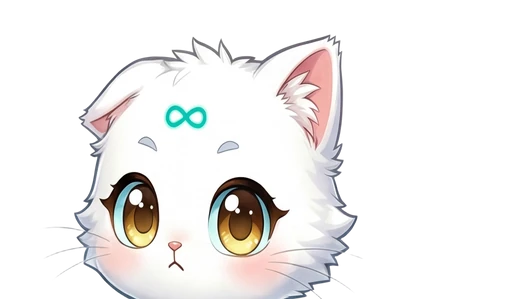
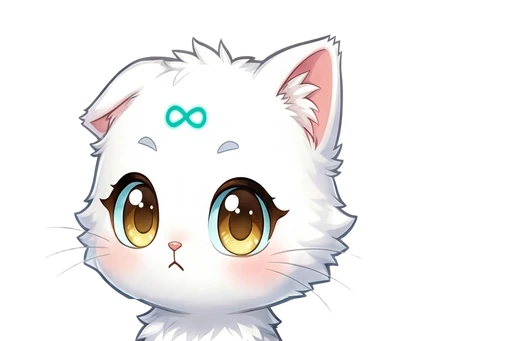
feat(companion): let Frost's gaze follow the pointer across the screen
The cat used to look only at a pointer within a cat's width of its body;
farther away it kept to itself. That read "a small cat cannot see the far
side of the screen" as behaviour, but it meant the pet ignored the pointer
most of the time it was being used.

The gaze now follows anywhere. The body stays put; the head turns only
about the neck, saturating within GAZE_REACH and fading with distance
toward GAZE_FALLOFF - a cat does not crane across the room, but the eyes
still aim. The poll (50ms) only sets a target; a rAF loop eases toward it
with exponential smoothing (GAZE_TAU_MS) and stops once settled, so the
turn is one continuous glance instead of a step per poll and an idle cat
costs nothing. Startle is now a far-to-near jump between polls
(STARTLE_FROM -> STARTLE_RADIUS), not a side effect of the old radius.

The head layer was recut with a downward overlap (recut_overlap.py) and
every expression/look frame re-exported, so the seam hides in one patch of
fur instead of showing when the face or gaze changes; click reactions move
the whole cat.

Changed region(s): [[0.1176, 0.0903, 0.7059, 1.0]]

diff --git a/src/styles.css b/src/styles.css
@@ -1043,7 +1043,7 @@ body { background: transparent; }
   height: 100%;
   --look-x: 0;
   --look-y: 0;
-  transition: rotate 240ms ease-out;
+  rotate: calc(var(--look-x) * 1.2deg);
 }
 
 .pet__body,
@@ -1053,10 +1053,11 @@ body { background: transparent; }
   width: 100%;
 }
 
-/* The head sits above the body; the body starts where the neck ruff ends,
-   which is the same cut the artwork was split on. */
-.pet__head { top: 0; height: 59%; z-index: 2; }
-.pet__body { bottom: 0; height: 41%; z-index: 1; }
+/* The head frame is cut 140 source rows INTO the body (recut_overlap.py):
+   the overlap is the same fur pixels the body draws, so the seam is invisible
+   at rest and the head can lift or tilt without exposing a gap at the neck. */
+.pet__head { top: 0; height: 66.94%; z-index: 2; }
+.pet__body { bottom: 0; height: 41.29%; z-index: 1; }
 
 .pet__body-frame {
   width: 100%;
@@ -1074,7 +1075,7 @@ body { background: transparent; }
   object-fit: contain;
   object-position: 50% 100%;
   opacity: 0;
-  transition: opacity 180ms ease;
+  transition: opacity 140ms ease;
   will-change: opacity;
 }
 
@@ -1086,38 +1087,40 @@ body { background: transparent; }
 .pet__head { animation: pet-head 6.4s ease-in-out infinite; transform-origin: 50% 100%; }
 
 /* The pointer. --look-x and --look-y are the pointer's offset from the
-   cat's centre, normalised; companion.ts sets them and CSS does the rest.
-   The gaze uses the individual rotate/translate properties on purpose: the
-   idle and mood loops animate `transform`, and an animation would override
-   a `transform` declaration on the same element — the individual properties
-   compose with it instead, so the cat can breathe and look at you at the
-   same time. */
+   cat's centre, normalised and eased per-frame by companion.ts; CSS turns
+   them into motion. The gaze uses the individual rotate/translate properties
+   on purpose: the idle and mood loops animate `transform`, and an animation
+   would override a `transform` declaration on the same element — the
+   individual properties compose with it instead, so the cat can breathe and
+   look at you at the same time. No transition here: the rAF easing is the
+   smoothing, a second one would only add lag. */
 .pet__head {
-  rotate: calc(var(--look-x) * 9deg);
-  translate: calc(var(--look-x) * 2.4%) calc(var(--look-y) * 2.2%);
-  transition: rotate 240ms ease-out, translate 240ms ease-out;
+  rotate: calc(var(--look-x) * 6deg);
+  translate: calc(var(--look-x) * 2.2%) calc(var(--look-y) * 1.6%);
 }
 .pet__body {
-  rotate: calc(var(--look-x) * 2.6deg);
-  translate: calc(var(--look-x) * 0.8%) calc(var(--look-y) * 0.8%);
-  transition: rotate 240ms ease-out, translate 240ms ease-out;
+  rotate: calc(var(--look-x) * 2deg);
+  translate: calc(var(--look-x) * 0.6%) calc(var(--look-y) * 0.6%);
 }
 
-@keyframes pet-float { 0%, 100% { transform: translateY(0); } 50% { transform: translateY(-4px); } }
-@keyframes pet-breathe { 0%, 100% { transform: scale(1, 1); } 50% { transform: scale(1.018, .988); } }
-@keyframes pet-head { 0%, 100% { transform: rotate(-1.4deg) translateY(0); } 50% { transform: rotate(1.4deg) translateY(-1px); } }
-@keyframes pet-lean-in { 0%, 100% { transform: rotate(-2deg) translateY(0) scale(1); } 50% { transform: rotate(2.5deg) translateY(-3px) scale(1.02); } }
-@keyframes pet-hop { 0% { transform: translateY(0) scale(1); } 35% { transform: translateY(-9px) scale(1.05, .96); } 70% { transform: translateY(0) scale(.97, 1.03); } 100% { transform: translateY(0) scale(1); } }
-@keyframes pet-happy-head { 0% { transform: rotate(0) translateY(0); } 35% { transform: rotate(-5deg) translateY(-2px); } 70% { transform: rotate(3deg) translateY(1px); } 100% { transform: rotate(0) translateY(0); } }
-@keyframes pet-happy-body { 0% { transform: scale(1, 1); } 35% { transform: scale(.97, 1.04); } 70% { transform: scale(1.03, .97); } 100% { transform: scale(1, 1); } }
-@keyframes pet-think { 0%, 100% { transform: rotate(-3.5deg) translateX(-1.5%); } 50% { transform: rotate(3.5deg) translateX(1.5%); } }
-@keyframes pet-pop { 0% { transform: scale(1); } 45% { transform: scale(1.09, 1.11) translateY(-4px); } 100% { transform: scale(1); } }
-@keyframes pet-pop-head { 0% { transform: translateY(0) scale(1); } 45% { transform: translateY(-5px) scale(1.05); } 100% { transform: translateY(0) scale(1); } }
-@keyframes pet-turn-away { 0%, 100% { transform: rotate(-7deg) translateX(-2%); } 50% { transform: rotate(-9deg) translateX(-3%); } }
+/* Head-only motion stays a tilt about the neck (transform-origin 50% 100%):
+   the cut line sits at the origin, so rotation never slides the seam, and
+   the fur overlap absorbs the little lift a tilt adds. Whole-cat beats
+   (hop, pop) transform the pet so both layers move as one. */
+@keyframes pet-float { 0%, 100% { transform: translateY(0); } 50% { transform: translateY(-3px); } }
+@keyframes pet-breathe { 0%, 100% { transform: scale(1, 1); } 50% { transform: scale(1.015, .99); } }
+@keyframes pet-head { 0%, 100% { transform: rotate(-1.2deg) translateY(0); } 50% { transform: rotate(1.2deg) translateY(-0.5px); } }
+@keyframes pet-lean-in { 0%, 100% { transform: rotate(-1.6deg) translateY(0) scale(1); } 50% { transform: rotate(2deg) translateY(-1.5px) scale(1.015); } }
+@keyframes pet-hop { 0% { transform: translateY(0) scale(1); } 30% { transform: translateY(-5px) scale(.98, 1.03); } 55% { transform: translateY(0) scale(1.04, .96); } 78% { transform: translateY(-1.5px) scale(.99, 1.01); } 100% { transform: translateY(0) scale(1); } }
+@keyframes pet-happy-head { 0%, 100% { transform: rotate(0); } 35% { transform: rotate(-3deg); } 70% { transform: rotate(2deg); } }
+@keyframes pet-think { 0%, 100% { transform: rotate(-2.5deg) translateX(-1%); } 50% { transform: rotate(2.5deg) translateX(1%); } }
+@keyframes pet-pop { 0% { transform: scale(1); } 45% { transform: scale(1.06, 1.08) translateY(-3px); } 100% { transform: scale(1); } }
+@keyframes pet-pop-head { 0%, 100% { transform: rotate(0); } 45% { transform: rotate(2.5deg); } }
+@keyframes pet-turn-away { 0%, 100% { transform: rotate(-5deg) translateX(-1.5%); } 50% { transform: rotate(-6.5deg) translateX(-2%); } }
 @keyframes pet-dangle { 0%, 100% { transform: rotate(-3deg) translateY(0); } 50% { transform: rotate(4deg) translateY(2px); } }
 @keyframes pet-swing { 0%, 100% { transform: rotate(3deg); } 50% { transform: rotate(-3deg); } }
-@keyframes pet-shake { 0%, 100% { transform: rotate(0) translateX(0); } 25% { transform: rotate(-6deg) translateX(-3%); } 75% { transform: rotate(6deg) translateX(3%); } }
-@keyframes pet-puff { 0%, 100% { transform: scale(1, 1); } 50% { transform: scale(1.06, .94); } }
+@keyframes pet-shake { 0%, 100% { transform: rotate(0) translateX(0); } 25% { transform: rotate(-4deg) translateX(-2%); } 75% { transform: rotate(4deg) translateX(2%); } }
+@keyframes pet-puff { 0%, 100% { transform: scale(1, 1); } 50% { transform: scale(1.05, .95); } }
 
 /* ------------------------------------------------------ the gaze frames */
 /* The neutral face is the resting one; the others replace it when the
@@ -1159,10 +1162,10 @@ body { background: transparent; }
 .pet[data-mood="curious"] .pet__head { animation: pet-lean-in 1.6s ease-in-out infinite; }
 .pet[data-mood="curious"] .pet__body { animation: pet-breathe 3.2s ease-in-out infinite; }
 
-/* Happy — it hops, once, and settles. */
-.pet[data-mood="happy"] { animation: pet-hop 620ms cubic-bezier(.3, .8, .4, 1); }
-.pet[data-mood="happy"] .pet__head { animation: pet-happy-head 620ms cubic-bezier(.3, .8, .4, 1); }
-.pet[data-mood="happy"] .pet__body { animation: pet-happy-body 620ms cubic-bezier(.3, .8, .4, 1); }
+/* Happy — the whole cat hops once and settles; the head only tilts about
+   the neck, so the hop never pulls the head off the body. */
+.pet[data-mood="happy"] { animation: pet-hop 560ms cubic-bezier(.3, .8, .4, 1); }
+.pet[data-mood="happy"] .pet__head { animation: pet-happy-head 560ms cubic-bezier(.3, .8, .4, 1); }
 
 /* Thinking — the cat rocks the way a person does when working something out. */
 .pet[data-mood="thinking"] .pet__head { animation: pet-think 1.9s ease-in-out infinite; }
@@ -1233,7 +1236,7 @@ body { background: transparent; }
 .pet[data-look="sleepy"] .pet__body { animation-duration: 8s; }
 
 @media (prefers-reduced-motion: reduce) {
-  .pet, .pet__body, .pet__head { animation: none !important; transition: none !important; }
+  .pet, .pet__body, .pet__head { animation: none !important; transition: none !important; rotate: 0deg; translate: 0 0; }
   .pet__frame { transition: none; }
 }
 

diff --git a/src/companion.ts b/src/companion.ts
@@ -61,15 +61,21 @@ type PointerState = {
   scaleFactor: number;
 };
 
-/// The cat notices the pointer within roughly a cat-width of its body.
-/// Farther away it keeps to itself: a pointer on the other side of the
-/// screen is not something a small cat can see, and pretending otherwise
-/// reads as a tracking bug.
-const ATTENTION_RADIUS = 104;
-
-/// A pointer that jumps from outside the attention radius to inside this one
-/// between two polls moved fast and landed close: a startle, not a glance.
+/// A pointer that jumps from far away to inside this radius between two
+/// polls moved fast and landed close: a startle, not a glance.
 const STARTLE_RADIUS = 56;
+const STARTLE_FROM = 150;
+
+/// The gaze follows the pointer anywhere on screen. Within GAZE_REACH the
+/// turn saturates; beyond it the head turn fades with distance — a cat does
+/// not crane its neck across the room — while the eyes still aim.
+const GAZE_REACH = 160;
+const GAZE_FALLOFF = 520;
+
+/// Exponential smoothing time constant for the gaze. The poll only sets a
+/// target; a rAF loop eases toward it every frame, so the turn is continuous
+/// instead of one small step per poll.
+const GAZE_TAU_MS = 110;
 
 /// Below this an axis counts as "straight ahead", so a pointer sitting on
 /// the cat does not make it twitch. While an axis is in the dead zone the
@@ -77,10 +83,10 @@ const STARTLE_RADIUS = 56;
 /// between mirror frames.
 const DIRECTION_DEADZONE = 6;
 
-/// How often the pointer is read. The OS call is cheap, but polling it on
-/// every animation frame would burn a core for a 130-pixel window; 60ms is
-/// smooth enough for a glance and cheap enough to be invisible.
-const POINTER_POLL_MS = 60;
+/// How often the pointer target is read. The OS call is cheap, but polling
+/// it on every animation frame would burn a core for a 130-pixel window;
+/// 50ms is fresh enough for a target that the rAF loop then eases toward.
+const POINTER_POLL_MS = 50;
 
 /// The blink cycle. Cats blink roughly every few seconds; the frame swap is
 /// short enough to read as a blink rather than a change of expression.
@@ -110,10 +116,16 @@ export function initCompanion(): void {
   let look: Look = "neutral";
   /// Set while a blink frame is showing, so the poll does not fight it.
   let blinking = false;
-  /// Whether the pointer is close enough to be worth looking at.
-  let attention = false;
   let lastSide: { h: "left" | "right"; v: "up" | "down" } = { h: "left", v: "up" };
   let lastDistance = Infinity;
+  /// The gaze target (set by the poll) and the eased value (written by the
+  /// rAF loop), normalised to ±1.
+  let targetX = 0;
+  let targetY = 0;
+  let curX = 0;
+  let curY = 0;
+  let gazeRaf = 0;
+  let gazeLast = 0;
 
   function setMood(mood: Mood, ms = 0): void {
     surface.dataset.mood = mood;
@@ -146,11 +158,34 @@ export function initCompanion(): void {
     if (!blinking) pet.dataset.look = next;
   }
 
-  /// Eyes back to the centre, head straight.
-  function rest(): void {
-    pet.style.setProperty("--look-x", "0");
-    pet.style.setProperty("--look-y", "0");
-    applyLook("neutral");
+  /// The poll sets a target; the loop eases the written value toward it with
+  /// an exponential decay, so every frame moves a little and the turn reads
+  /// as one continuous glance instead of a step per poll. The loop stops
+  /// itself once settled, so an idle cat costs nothing.
+  function setTarget(x: number, y: number): void {
+    targetX = x;
+    targetY = y;
+    if (!gazeRaf) {
+      gazeLast = performance.now();
+      gazeRaf = requestAnimationFrame(tick);
+    }
+  }
+
+  function tick(now: number): void {
+    const dt = Math.min(64, now - gazeLast);
+    gazeLast = now;
+    const k = 1 - Math.exp(-dt / GAZE_TAU_MS);
+    curX += (targetX - curX) * k;
+    curY += (targetY - curY) * k;
+    if (Math.abs(targetX - curX) < 0.002 && Math.abs(targetY - curY) < 0.002) {
+      curX = targetX;
+      curY = targetY;
+      gazeRaf = 0;
+    } else {
+      gazeRaf = requestAnimationFrame(tick);
+    }
+    pet.style.setProperty("--look-x", curX.toFixed(4));
+    pet.style.setProperty("--look-y", curY.toFixed(4));
   }
 
   /// The pointer's direction, as one of the four diagonals the art covers.
@@ -163,18 +198,15 @@ export function initCompanion(): void {
     return `${lastSide.v}${lastSide.h}`;
   }
 
-  /// The cat turns toward the pointer and its eyes follow.
-  function aim(x: number, y: number): void {
-    // The turn is a plain ratio, not an angle: how far the pointer is from
-    // the cat, in units of the pet's own size, decides how much the head
-    // turns. A pointer at the edge of the neighbourhood and one just past
-    // the cat's shoulder then look different, which is what a real glance
-    // does.
-    const reach = 150;
-    const nx = Math.max(-1, Math.min(1, x / reach));
-    const ny = Math.max(-1, Math.min(1, y / reach));
-    pet.style.setProperty("--look-x", nx.toFixed(3));
-    pet.style.setProperty("--look-y", ny.toFixed(3));
+  /// The cat turns toward the pointer and its eyes follow, wherever on the
+  /// screen the pointer is. The turn is a plain ratio, not an angle: how far
+  /// the pointer is from the cat, in units of the pet's own size, decides how
+  /// much the head turns, faded down at screen-scale distances.
+  function aim(x: number, y: number, distance: number): void {
+    const falloff = 1 / (1 + Math.max(0, distance - GAZE_REACH) / GAZE_FALLOFF);
+    const nx = Math.max(-1, Math.min(1, x / GAZE_REACH)) * falloff;
+    const ny = Math.max(-1, Math.min(1, y / GAZE_REACH)) * falloff;
+    setTarget(nx, ny);
     applyLook(directionFrom(x, y));
   }
 
@@ -229,9 +261,7 @@ export function initCompanion(): void {
     sulkTimer = setTimeout(() => {
       if (dragging || opening || thinking || document.hidden) return;
       sulking = true;
-      attention = false;
-      pet.style.setProperty("--look-x", "0");
-      pet.style.setProperty("--look-y", "0");
+      setTarget(0, 0);
       setMood("tsundere");
       applyLook("sleepy");
       say(REACTIONS.tsundere, 3200);
@@ -254,17 +284,11 @@ export function initCompanion(): void {
     const dy = (state.screenY - centreY) / scale;
     const distance = Math.hypot(dx, dy);
 
-    if (distance < ATTENTION_RADIUS) {
-      if (!attention && lastDistance >= ATTENTION_RADIUS && distance < STARTLE_RADIUS && !thinking) {
-        setMood("surprised", 650);
-        say(REACTIONS.surprised, 2200);
-      }
-      attention = true;
-      aim(dx, dy);
-    } else if (attention) {
-      attention = false;
-      rest();
+    if (!thinking && lastDistance >= STARTLE_FROM && distance < STARTLE_RADIUS) {
+      setMood("surprised", 650);
+      say(REACTIONS.surprised, 2200);
     }
+    aim(dx, dy, distance);
     lastDistance = distance;
   }
 
@@ -292,10 +316,8 @@ export function initCompanion(): void {
     if (event.button !== 0 || !desktop || dragging) return;
     event.preventDefault();
     dragging = true;
-    attention = false;
     lastDistance = Infinity;
-    pet.style.setProperty("--look-x", "0");
-    pet.style.setProperty("--look-y", "0");
+    setTarget(0, 0);
     setMood("dragging");
     say(REACTIONS.dragging);
     void invoke("window_drag").catch(() => { fail(); }).finally(() => {
@@ -317,7 +339,8 @@ export function initCompanion(): void {
 
   scheduleBlink();
   resetSulk();
-  if (desktop) {
+  const reducedMotion = window.matchMedia("(prefers-reduced-motion: reduce)").matches;
+  if (desktop && !reducedMotion) {
     poll(readPointer, POINTER_POLL_MS);
     document.addEventListener("visibilitychange", () => {
       if (!document.hidden) {

diff --git a/pet-preview.html b/pet-preview.html
@@ -11,7 +11,7 @@ body{margin:0;background:#F4F2EE;font-family:-apple-system,sans-serif}
 .lbl{font-size:12px;color:#57524A;margin-top:8px}
 .note{padding:16px 24px 0;font-size:13px;color:#57524A}
 </style></head><body>
-<p class="note">浏览器预览 · 复用 src/styles.css 真实规则。最后一格移动鼠标可试视线跟随。</p>
+<p class="note">浏览器预览 · 复用 src/styles.css 真实规则。倒数第二格移动鼠标试阻尼视线跟随；最后一格自动循环点击反应，可检查脖子接缝。</p>
 <div class="row" id="row"></div>
 <script>
 const views=[
@@ -54,19 +54,45 @@ for(const [mood,look,lbl] of views){
  row.appendChild(d);
 }
 const live=document.createElement('div');live.className='cell';
-live.innerHTML=petHTML('idle','neutral')+`<div class="lbl">视线跟随 · 移动鼠标</div>`;
+live.innerHTML=petHTML('idle','neutral')+`<div class="lbl">视线跟随 · 移动鼠标（阻尼）</div>`;
 row.appendChild(live);
 const pet=live.querySelector('.pet');
-let h='left',v='up';
-addEventListener('mousemove',(e)=>{
+let h='left',v='up',tx=0,ty=0,cx=0,cy=0,raf=0,last=0;
+function tick(now){
+ const dt=Math.min(64,now-last);last=now;
+ const k=1-Math.exp(-dt/110);
+ cx+=(tx-cx)*k;cy+=(ty-cy)*k;
+ if(Math.abs(tx-cx)<0.002&&Math.abs(ty-cy)<0.002){cx=tx;cy=ty;raf=0;}else raf=requestAnimationFrame(tick);
+ pet.style.setProperty('--look-x',cx.toFixed(4));
+ pet.style.setProperty('--look-y',cy.toFixed(4));
+}
+addEventListener('mousemove',(e)=>point(e.clientX,e.clientY));
+function point(px,py){
  const r=pet.getBoundingClientRect();
- const x=e.clientX-(r.left+r.width/2), y=e.clientY-(r.top+r.height/2);
- const nx=Math.max(-1,Math.min(1,x/150)), ny=Math.max(-1,Math.min(1,y/150));
- pet.style.setProperty('--look-x',nx.toFixed(3));
- pet.style.setProperty('--look-y',ny.toFixed(3));
+ const x=px-(r.left+r.width/2), y=py-(r.top+r.height/2);
+ const d=Math.hypot(x,y), f=1/(1+Math.max(0,d-160)/520);
+ tx=Math.max(-1,Math.min(1,x/160))*f; ty=Math.max(-1,Math.min(1,y/160))*f;
+ if(!raf){last=performance.now();raf=requestAnimationFrame(tick);}
  if(Math.abs(x)<6&&Math.abs(y)<6){pet.dataset.look='neutral';return;}
  if(Math.abs(x)>=6)h=x<0?'left':'right';
  if(Math.abs(y)>=6)v=y<0?'up':'down';
  pet.dataset.look=v+h;
-});
+}
+// ?sweep — a synthetic pointer orbit, so headless captures can verify the
+// damped gaze loop without a real mouse.
+if(new URLSearchParams(location.search).has('sweep')){
+ const r=pet.getBoundingClientRect();
+ const cx=r.left+r.width/2, cy=r.top+r.height/2;
+ (function sweep(now){
+  const t=now/1000;
+  point(cx+Math.cos(t*1.4)*420, cy+Math.sin(t*1.4)*260);
+  requestAnimationFrame(sweep);
+ })(performance.now());
+}
+const demo=document.createElement('div');demo.className='cell';
+demo.innerHTML=petHTML('idle','neutral')+`<div class="lbl">点击反应 · 自动循环</div>`;
+row.appendChild(demo);
+const dpet=demo.querySelector('.pet');
+function hop(){ dpet.dataset.mood='happy'; setTimeout(()=>{dpet.dataset.mood='idle';},600); }
+hop(); setInterval(hop,2200);
 </script></body></html>
